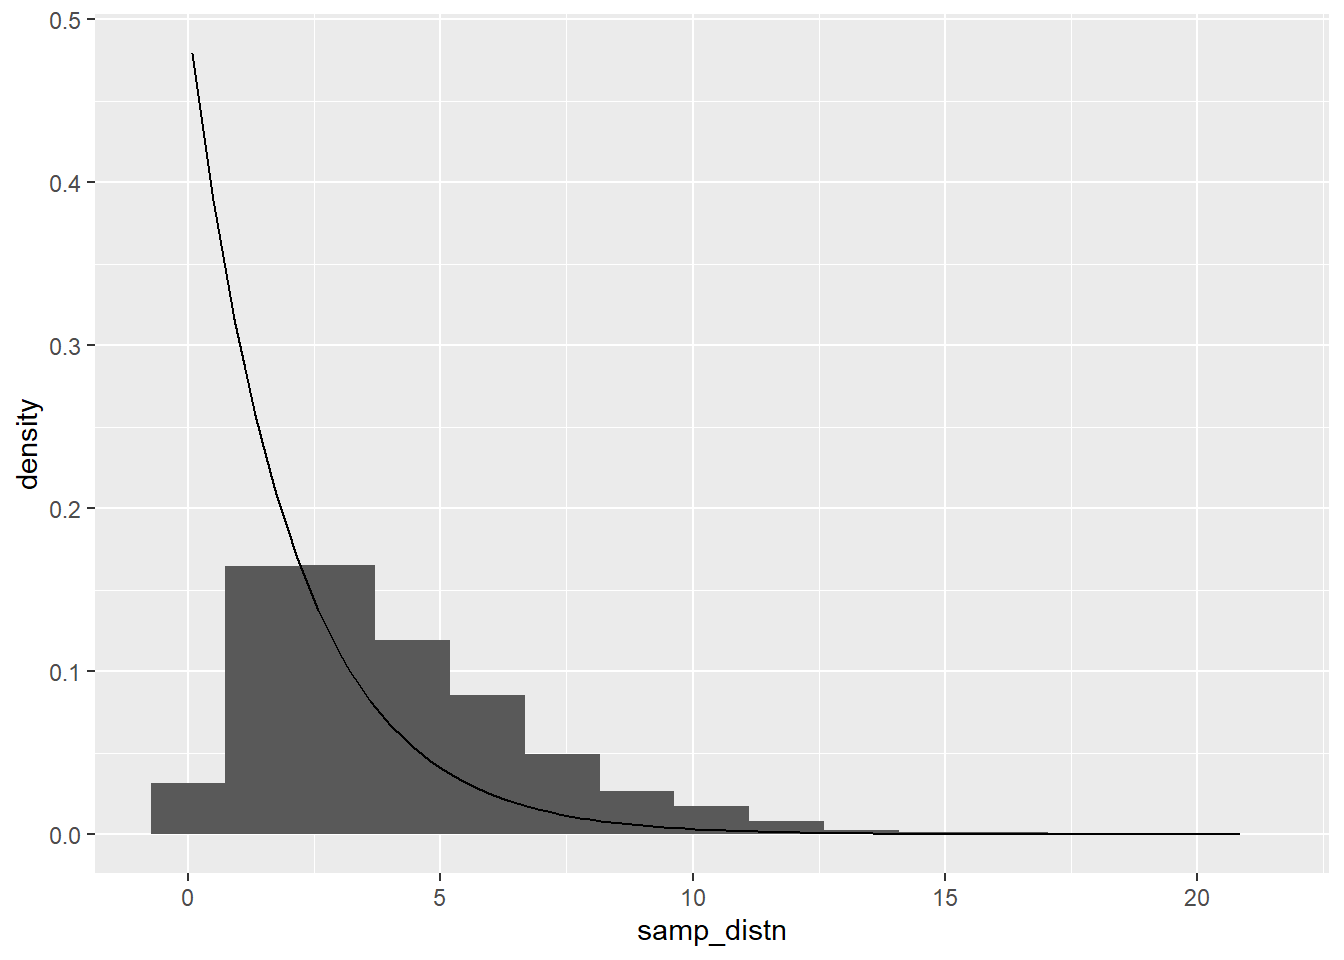
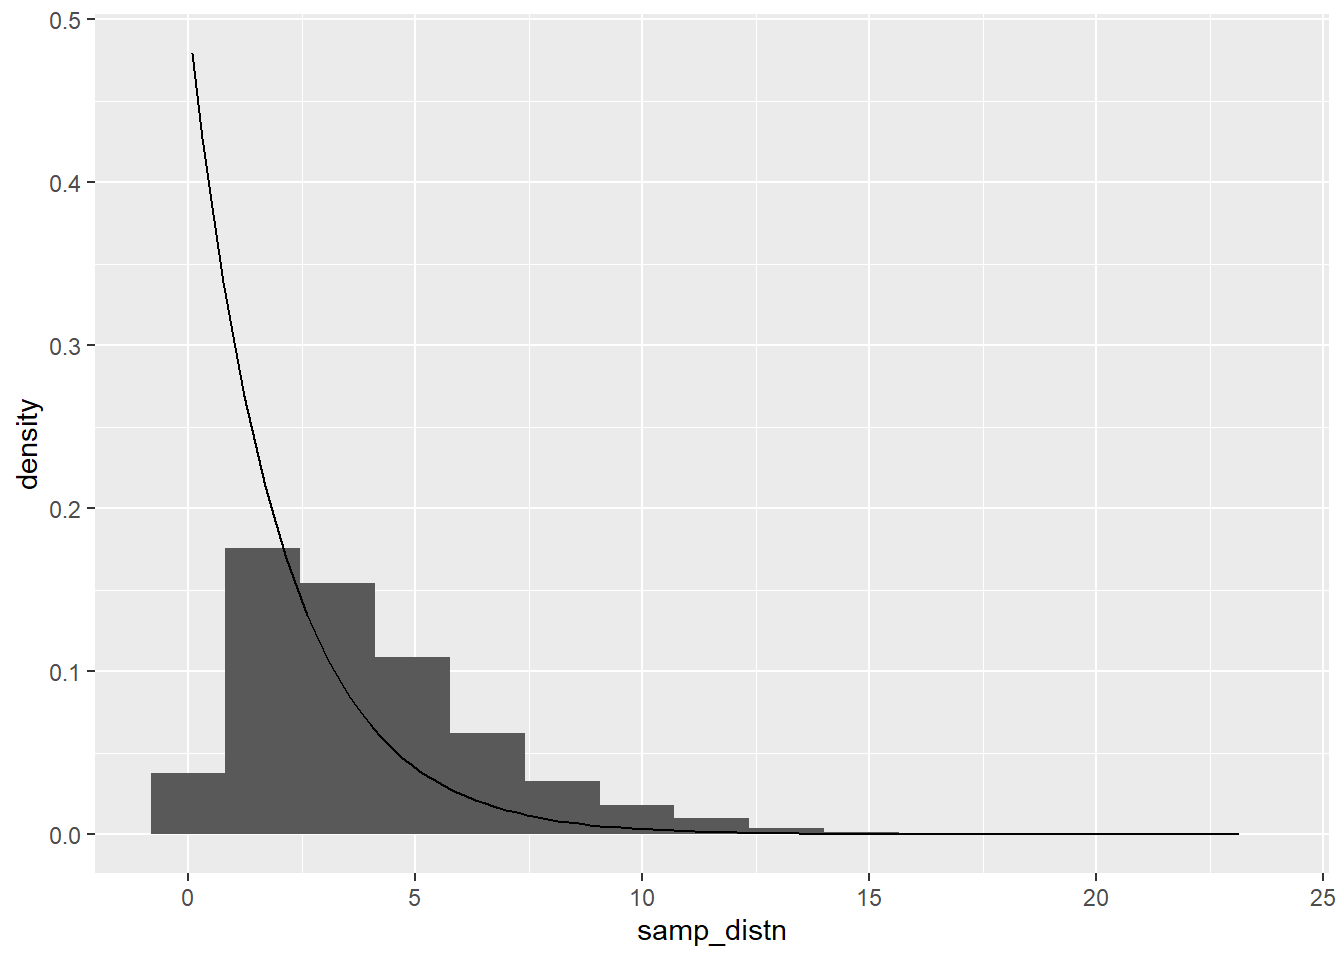
finally6

diff --git a/public/project2/index.html b/public/project2/index.html
@@ -146,8 +146,8 @@ ggMarginal(p,type=&quot;density&quot;,xparams = list(bw=.5), yparams=list(bw=.5)
 <p><img src="/project2_files/figure-html/unnamed-chunk-1-1.png" width="672" /></p>
 <pre class="r"><code>cov(df)</code></pre>
 <pre><code>##                    total_protein packed_cell_volume
-## total_protein          1.0056037          0.5178547
-## packed_cell_volume     0.5178547          0.9889513</code></pre>
+## total_protein          1.0009003          0.4843881
+## packed_cell_volume     0.4843881          0.9986623</code></pre>
 <p>Given the large sample size and further confirmed with the ggplot, the data meets the assumption of multivariate normality. The data also appears to meet the assumption of homogenaity of covariances from the values presented in the table. Given the significance of the overall MANOVA, additional tests were performed to test significance for each variable using univariate ANOVAs. After these were found to be significant, pairwise t.tests were performed to test p-values of each combination of tested variables. A total of five tests were performed, and as such, the probability of a type-one error was given to be 22.6%. However, because of these multiple comparisons a bonferroni’s coorection was determined, giving a new significant p-value of .01. Even with this adjustment, all p-values remained significant, signifying that both outcomes were found to differ significantly from one another in terms of total protein and packed cell volume values.</p>
 <pre class="r"><code>samp_distn&lt;-vector()
 for(i in 1:5000){
@@ -262,9 +262,9 @@ samp_distn&lt;-replicate(5000, {
 
 samp_distn %&gt;% t %&gt;% as.data.frame %&gt;% summarize_all(sd)</code></pre>
 <pre><code>##   (Intercept) ageyoung       TP_c abdominal_distentionnone
-## 1    1.316756 1.947828 0.03512659                 1.799024
+## 1    1.338721 1.980924 0.03504883                 1.805547
 ##   abdominal_distentionsevere abdominal_distentionslight TP_c:surgeryyes
-## 1                   2.184542                   1.869947      0.05004563</code></pre>
+## 1                   2.199978                   1.869538      0.04995071</code></pre>
 <pre class="r"><code>fit&lt;-lm(packed_cell_volume~age+TP_c+abdominal_distention+surgery:TP_c, data=horse1)
 resids&lt;-fit$residuals 
 fitted&lt;-fit$fitted.values 
@@ -276,10 +276,10 @@ resid_resamp&lt;-replicate(5000,{
 })
 
 resid_resamp%&gt;%t%&gt;%as.data.frame%&gt;%summarize_all(sd)</code></pre>
-<pre><code>##   (Intercept) ageyoung       TP_c abdominal_distentionnone
-## 1    1.290445 2.652118 0.03905414                 1.765107
+<pre><code>##   (Intercept) ageyoung      TP_c abdominal_distentionnone
+## 1    1.318697 2.699931 0.0387871                 1.787252
 ##   abdominal_distentionsevere abdominal_distentionslight TP_c:surgeryyes
-## 1                   2.204484                   1.785979      0.05092433</code></pre>
+## 1                   2.231419                   1.827348       0.0510362</code></pre>
 <p>The Bootstrapped standard errors caluculated were unexpectedly lower than all values from the original standard errors.This is an unusual finding given the Bootstrapped standard errors do not require assumptions to be met and thus a higher SE is expected. In addition, some Robust standard errors also did not increase, but rather decreased from the original. These decreases may have been becasue some violations in the data were met. The expected p-values for both Bootstrapped and Robust standard errors would likely be higher than the p-value for original, because they do not require assumptions to be met.</p>
 <pre class="r"><code>log_horse&lt;-horse%&gt;%mutate(y=ifelse(outcome==&quot;died&quot;,1,0))%&gt;%drop_na(abdominal_distention)
 head(log_horse)</code></pre>
@@ -456,53 +456,53 @@ lasso&lt;-glmnet(x,y,family=&quot;binomial&quot;,lambda=cv$lambda.1se)
 coef(lasso) </code></pre>
 <pre><code>## 47 x 1 sparse Matrix of class &quot;dgCMatrix&quot;
 ##                                           s0
-## (Intercept)                      1.190345522
-## ageyoung                         0.137194903
-## temp_of_extremitiescool         -0.104039289
-## temp_of_extremitiesNA            0.267775045
+## (Intercept)                      1.195792381
+## ageyoung                         0.125494321
+## temp_of_extremitiescool         -0.114022040
+## temp_of_extremitiesNA            0.258782716
 ## temp_of_extremitiesnormal        .          
-## temp_of_extremitieswarm         -0.176734950
-## peripheral_pulseincreased       -0.431145304
-## peripheral_pulseNA               0.006342714
-## peripheral_pulsenormal          -0.027356854
+## temp_of_extremitieswarm         -0.211447778
+## peripheral_pulseincreased       -0.457496593
+## peripheral_pulseNA               .          
+## peripheral_pulsenormal          -0.045564815
 ## peripheral_pulsereduced          .          
-## mucous_membranebright_red        0.099403746
-## mucous_membranedark_cyanotic     0.363073234
-## mucous_membraneNA                .          
-## mucous_membranenormal_pink      -0.110474718
-## mucous_membranepale_cyanotic     0.271340325
-## mucous_membranepale_pink         0.088278512
-## capillary_refill_timeless_3_sec  0.084570957
+## mucous_membranebright_red        0.088890813
+## mucous_membranedark_cyanotic     0.335887466
+## mucous_membraneNA               -0.012110527
+## mucous_membranenormal_pink      -0.124820669
+## mucous_membranepale_cyanotic     0.270449299
+## mucous_membranepale_pink         0.089092326
+## capillary_refill_timeless_3_sec  0.062867997
 ## capillary_refill_timemore_3_sec  .          
 ## capillary_refill_timeNA          .          
-## paindepressed                   -0.003823385
-## painextreme_pain                -0.050072649
+## paindepressed                    0.108190712
+## painextreme_pain                -0.135941971
 ## painmild_pain                    .          
-## painsevere_pain                  0.023848831
-## peristalsishypermotile          -0.068215110
-## peristalsishypomotile            0.117734880
-## peristalsisNA                   -0.128305692
-## peristalsisnormal                0.294194847
-## abdominal_distentionnone        90.918138698
-## abdominal_distentionsevere      -4.111201856
-## abdominal_distentionslight      70.527159810
-## nasogastric_tubenone            -0.068116546
-## nasogastric_tubesignificant      0.034222617
-## nasogastric_tubeslight           0.083813792
-## rectal_exam_fecesdecreased      -0.050458325
-## rectal_exam_fecesincreased       0.092134397
-## rectal_exam_fecesNA             -0.045091034
-## rectal_exam_fecesnormal         -0.114738617
-## abdomendistend_small             0.196547044
-## abdomenfirm                     -0.340435181
-## abdomenNA                       -0.015910003
-## abdomennormal                   -0.207091324
-## abdomenother                    -0.324025028
-## packed_cell_volume              -0.215750733
-## total_protein                    0.037912283
+## painsevere_pain                  .          
+## peristalsishypermotile          -0.054370806
+## peristalsishypomotile            0.127486464
+## peristalsisNA                   -0.111875137
+## peristalsisnormal                0.279179409
+## abdominal_distentionnone        90.680530202
+## abdominal_distentionsevere      -4.095741298
+## abdominal_distentionslight      70.343197532
+## nasogastric_tubenone            -0.053875622
+## nasogastric_tubesignificant      0.065320420
+## nasogastric_tubeslight           0.099051632
+## rectal_exam_fecesdecreased      -0.048731358
+## rectal_exam_fecesincreased       0.086170090
+## rectal_exam_fecesNA             -0.001544779
+## rectal_exam_fecesnormal         -0.094845628
+## abdomendistend_small             0.225472129
+## abdomenfirm                     -0.337412166
+## abdomenNA                       -0.048436551
+## abdomennormal                   -0.201096403
+## abdomenother                    -0.354319815
+## packed_cell_volume              -0.204856151
+## total_protein                    0.030282588
 ## outcomelived                     .          
 ## y                                .          
-## logit                           93.052787633</code></pre>
+## logit                           92.777171983</code></pre>
 <pre class="r"><code>horse2&lt;-log_horse%&gt;%mutate(Warm_temp=ifelse(temp_of_extremities==&quot;warm&quot;,1,0))%&gt;%
   mutate(Normal_pink=ifelse(mucous_membrane==&quot;normal_pink&quot;,1,0))%&gt;%
   mutate(Hypermotile=ifelse(peristalsis==&quot;hypermotile&quot;,1,0))%&gt;%

diff --git a/content/project2.html b/content/project2.html
@@ -81,8 +81,8 @@ ggMarginal(p,type=&quot;density&quot;,xparams = list(bw=.5), yparams=list(bw=.5)
 <p><img src="/project2_files/figure-html/unnamed-chunk-1-1.png" width="672" /></p>
 <pre class="r"><code>cov(df)</code></pre>
 <pre><code>##                    total_protein packed_cell_volume
-## total_protein          1.0056037          0.5178547
-## packed_cell_volume     0.5178547          0.9889513</code></pre>
+## total_protein          1.0009003          0.4843881
+## packed_cell_volume     0.4843881          0.9986623</code></pre>
 <p>Given the large sample size and further confirmed with the ggplot, the data meets the assumption of multivariate normality. The data also appears to meet the assumption of homogenaity of covariances from the values presented in the table. Given the significance of the overall MANOVA, additional tests were performed to test significance for each variable using univariate ANOVAs. After these were found to be significant, pairwise t.tests were performed to test p-values of each combination of tested variables. A total of five tests were performed, and as such, the probability of a type-one error was given to be 22.6%. However, because of these multiple comparisons a bonferroni’s coorection was determined, giving a new significant p-value of .01. Even with this adjustment, all p-values remained significant, signifying that both outcomes were found to differ significantly from one another in terms of total protein and packed cell volume values.</p>
 <pre class="r"><code>samp_distn&lt;-vector()
 for(i in 1:5000){
@@ -197,9 +197,9 @@ samp_distn&lt;-replicate(5000, {
 
 samp_distn %&gt;% t %&gt;% as.data.frame %&gt;% summarize_all(sd)</code></pre>
 <pre><code>##   (Intercept) ageyoung       TP_c abdominal_distentionnone
-## 1    1.316756 1.947828 0.03512659                 1.799024
+## 1    1.338721 1.980924 0.03504883                 1.805547
 ##   abdominal_distentionsevere abdominal_distentionslight TP_c:surgeryyes
-## 1                   2.184542                   1.869947      0.05004563</code></pre>
+## 1                   2.199978                   1.869538      0.04995071</code></pre>
 <pre class="r"><code>fit&lt;-lm(packed_cell_volume~age+TP_c+abdominal_distention+surgery:TP_c, data=horse1)
 resids&lt;-fit$residuals 
 fitted&lt;-fit$fitted.values 
@@ -211,10 +211,10 @@ resid_resamp&lt;-replicate(5000,{
 })
 
 resid_resamp%&gt;%t%&gt;%as.data.frame%&gt;%summarize_all(sd)</code></pre>
-<pre><code>##   (Intercept) ageyoung       TP_c abdominal_distentionnone
-## 1    1.290445 2.652118 0.03905414                 1.765107
+<pre><code>##   (Intercept) ageyoung      TP_c abdominal_distentionnone
+## 1    1.318697 2.699931 0.0387871                 1.787252
 ##   abdominal_distentionsevere abdominal_distentionslight TP_c:surgeryyes
-## 1                   2.204484                   1.785979      0.05092433</code></pre>
+## 1                   2.231419                   1.827348       0.0510362</code></pre>
 <p>The Bootstrapped standard errors caluculated were unexpectedly lower than all values from the original standard errors.This is an unusual finding given the Bootstrapped standard errors do not require assumptions to be met and thus a higher SE is expected. In addition, some Robust standard errors also did not increase, but rather decreased from the original. These decreases may have been becasue some violations in the data were met. The expected p-values for both Bootstrapped and Robust standard errors would likely be higher than the p-value for original, because they do not require assumptions to be met.</p>
 <pre class="r"><code>log_horse&lt;-horse%&gt;%mutate(y=ifelse(outcome==&quot;died&quot;,1,0))%&gt;%drop_na(abdominal_distention)
 head(log_horse)</code></pre>
@@ -391,53 +391,53 @@ lasso&lt;-glmnet(x,y,family=&quot;binomial&quot;,lambda=cv$lambda.1se)
 coef(lasso) </code></pre>
 <pre><code>## 47 x 1 sparse Matrix of class &quot;dgCMatrix&quot;
 ##                                           s0
-## (Intercept)                      1.190345522
-## ageyoung                         0.137194903
-## temp_of_extremitiescool         -0.104039289
-## temp_of_extremitiesNA            0.267775045
+## (Intercept)                      1.195792381
+## ageyoung                         0.125494321
+## temp_of_extremitiescool         -0.114022040
+## temp_of_extremitiesNA            0.258782716
 ## temp_of_extremitiesnormal        .          
-## temp_of_extremitieswarm         -0.176734950
-## peripheral_pulseincreased       -0.431145304
-## peripheral_pulseNA               0.006342714
-## peripheral_pulsenormal          -0.027356854
+## temp_of_extremitieswarm         -0.211447778
+## peripheral_pulseincreased       -0.457496593
+## peripheral_pulseNA               .          
+## peripheral_pulsenormal          -0.045564815
 ## peripheral_pulsereduced          .          
-## mucous_membranebright_red        0.099403746
-## mucous_membranedark_cyanotic     0.363073234
-## mucous_membraneNA                .          
-## mucous_membranenormal_pink      -0.110474718
-## mucous_membranepale_cyanotic     0.271340325
-## mucous_membranepale_pink         0.088278512
-## capillary_refill_timeless_3_sec  0.084570957
+## mucous_membranebright_red        0.088890813
+## mucous_membranedark_cyanotic     0.335887466
+## mucous_membraneNA               -0.012110527
+## mucous_membranenormal_pink      -0.124820669
+## mucous_membranepale_cyanotic     0.270449299
+## mucous_membranepale_pink         0.089092326
+## capillary_refill_timeless_3_sec  0.062867997
 ## capillary_refill_timemore_3_sec  .          
 ## capillary_refill_timeNA          .          
-## paindepressed                   -0.003823385
-## painextreme_pain                -0.050072649
+## paindepressed                    0.108190712
+## painextreme_pain                -0.135941971
 ## painmild_pain                    .          
-## painsevere_pain                  0.023848831
-## peristalsishypermotile          -0.068215110
-## peristalsishypomotile            0.117734880
-## peristalsisNA                   -0.128305692
-## peristalsisnormal                0.294194847
-## abdominal_distentionnone        90.918138698
-## abdominal_distentionsevere      -4.111201856
-## abdominal_distentionslight      70.527159810
-## nasogastric_tubenone            -0.068116546
-## nasogastric_tubesignificant      0.034222617
-## nasogastric_tubeslight           0.083813792
-## rectal_exam_fecesdecreased      -0.050458325
-## rectal_exam_fecesincreased       0.092134397
-## rectal_exam_fecesNA             -0.045091034
-## rectal_exam_fecesnormal         -0.114738617
-## abdomendistend_small             0.196547044
-## abdomenfirm                     -0.340435181
-## abdomenNA                       -0.015910003
-## abdomennormal                   -0.207091324
-## abdomenother                    -0.324025028
-## packed_cell_volume              -0.215750733
-## total_protein                    0.037912283
+## painsevere_pain                  .          
+## peristalsishypermotile          -0.054370806
+## peristalsishypomotile            0.127486464
+## peristalsisNA                   -0.111875137
+## peristalsisnormal                0.279179409
+## abdominal_distentionnone        90.680530202
+## abdominal_distentionsevere      -4.095741298
+## abdominal_distentionslight      70.343197532
+## nasogastric_tubenone            -0.053875622
+## nasogastric_tubesignificant      0.065320420
+## nasogastric_tubeslight           0.099051632
+## rectal_exam_fecesdecreased      -0.048731358
+## rectal_exam_fecesincreased       0.086170090
+## rectal_exam_fecesNA             -0.001544779
+## rectal_exam_fecesnormal         -0.094845628
+## abdomendistend_small             0.225472129
+## abdomenfirm                     -0.337412166
+## abdomenNA                       -0.048436551
+## abdomennormal                   -0.201096403
+## abdomenother                    -0.354319815
+## packed_cell_volume              -0.204856151
+## total_protein                    0.030282588
 ## outcomelived                     .          
 ## y                                .          
-## logit                           93.052787633</code></pre>
+## logit                           92.777171983</code></pre>
 <pre class="r"><code>horse2&lt;-log_horse%&gt;%mutate(Warm_temp=ifelse(temp_of_extremities==&quot;warm&quot;,1,0))%&gt;%
   mutate(Normal_pink=ifelse(mucous_membrane==&quot;normal_pink&quot;,1,0))%&gt;%
   mutate(Hypermotile=ifelse(peristalsis==&quot;hypermotile&quot;,1,0))%&gt;%
